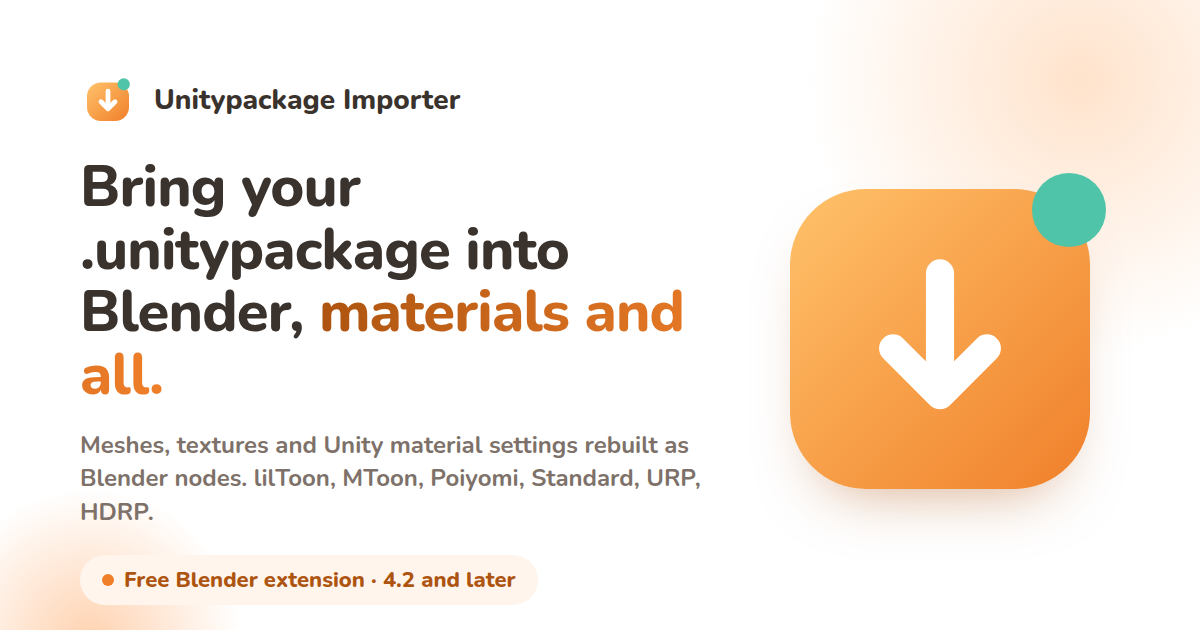
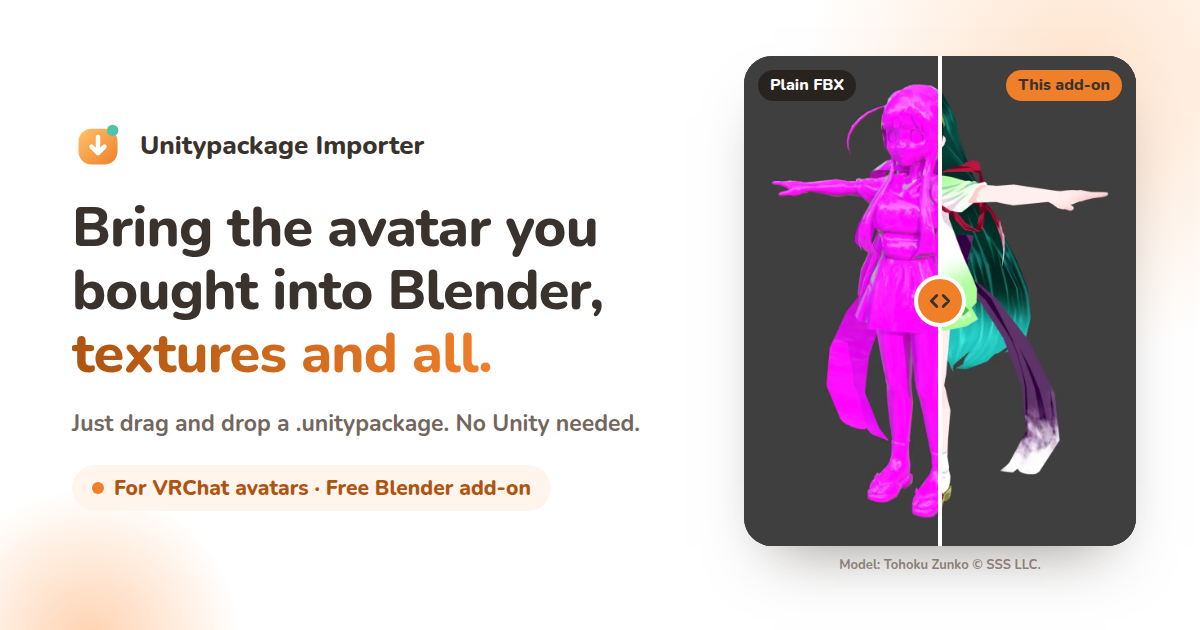
feat: 紹介ページの OGP 画像を新しい見出しと読み込み前後の比較に更新し、日本語版を分ける
OGP 画像は旧コピー「.unitypackage をマテリアルごと」と矢印のアイコンのままで、ページの訴求と合っていなかった。
また日本語ページも英語の画像を共有していた。

- tools/og_card.html を、左に新しい見出し、右にヒーローと同じ読み込み前後の比較（中央で分割）を置く構成に書き直した
  右側は web/assets/hero-before.webp / hero-after.webp をそのまま読むので、ヒーロー画像と見た目が揃う
- ?lang=ja で日本語の文言に切り替え、英語は og.png、日本語は og-ja.png としてレンダリングした
- 日本語ページの og:image / twitter:image / JSON-LD の image を og-ja.png に変更し、両ページの og:image:alt を新しい内容に合わせた
- 比較画像の下にモデルのクレジット（Tohoku Zunko © SSS LLC.）を小さく入れた

Claude-Session: https://claude.ai/code/session_01GbiR3pt3SLGdUYRcZfjBwH

diff --git a/tools/og_card.html b/tools/og_card.html
@@ -1,29 +1,43 @@
 <!DOCTYPE html>
-<!-- OGP 画像（1200×630）の元。ローカルの Chrome でレンダリングして web/assets/og.png にする:
-     google-chrome --headless=new --hide-scrollbars --virtual-time-budget=8000 --window-size=1200,630 --screenshot=web/assets/og.png tools/og_card.html
+<!-- OGP 画像（1200×630）の元。英語と日本語の 2 枚を、ローカルの Chrome でレンダリングして web/assets/ に置く:
+     google-chrome --headless=new --hide-scrollbars --virtual-time-budget=8000 --window-size=1200,630 --screenshot=web/assets/og.png "file://$PWD/tools/og_card.html"
+     google-chrome --headless=new --hide-scrollbars --virtual-time-budget=8000 --window-size=1200,630 --screenshot=web/assets/og-ja.png "file://$PWD/tools/og_card.html?lang=ja"
+     リポジトリのルートで実行すること（右側の前後比較は web/assets/hero-*.webp を相対パスで読む）。
      フォントは Google Fonts から読むので、オンラインで実行すること。 -->
 <html lang="en">
 <head>
 <meta charset="utf-8">
-<link rel="stylesheet" href="https://fonts.googleapis.com/css2?family=Nunito:wght@700;800&display=swap">
+<link rel="stylesheet" href="https://fonts.googleapis.com/css2?family=Nunito:wght@700;800&family=Zen+Maru+Gothic:wght@700;900&display=swap">
 <style>
   html, body { margin: 0; width: 1200px; height: 630px; overflow: hidden; }
   body { background: #ffffff; color: #3a322c; font-family: "Nunito", system-ui, sans-serif; position: relative; }
+  html[lang="ja"] body { font-family: "Zen Maru Gothic", "Nunito", system-ui, sans-serif; }
   .blob { position: absolute; border-radius: 50%; pointer-events: none; }
   .b1 { width: 760px; height: 760px; right: -260px; top: -300px; background: radial-gradient(closest-side, #ffe3cc, rgba(255,227,204,0) 72%); }
   .b2 { width: 420px; height: 420px; left: -120px; bottom: -220px; background: radial-gradient(closest-side, #ffd2b0, rgba(255,210,176,0) 72%); }
-  .card { position: absolute; inset: 0; padding: 72px 80px; display: grid; grid-template-columns: 1fr 360px; align-items: center; gap: 40px; }
-  .logo { display: flex; align-items: center; gap: 18px; font-weight: 800; font-size: 28px; margin-bottom: 28px; }
-  .logo svg { width: 56px; height: 56px; }
-  h1 { margin: 0 0 22px; font-size: 58px; line-height: 1.08; font-weight: 800; letter-spacing: -0.015em; }
+  .card { position: absolute; inset: 0; padding: 56px 64px 56px 72px; display: grid; grid-template-columns: minmax(0, 1fr) 392px; align-items: center; gap: 48px; }
+  .logo { display: flex; align-items: center; gap: 16px; font-family: "Nunito", system-ui, sans-serif; font-weight: 800; font-size: 26px; margin-bottom: 26px; }
+  .logo svg { width: 52px; height: 52px; }
+  h1 { margin: 0 0 22px; font-size: 56px; line-height: 1.12; font-weight: 800; letter-spacing: -0.015em; }
+  html[lang="ja"] h1 { font-size: 58px; line-height: 1.3; font-weight: 900; letter-spacing: 0; }
   h1 em { font-style: normal; background: linear-gradient(90deg, #ad5410, #f07f2a); -webkit-background-clip: text; background-clip: text; color: transparent; }
-  p { margin: 0; font-size: 24px; line-height: 1.4; color: #7d7169; max-width: 640px; font-weight: 700; }
-  .pill { display: inline-flex; align-items: center; gap: 10px; margin-top: 26px; background: #fff5ec; color: #ad5410; font-weight: 800; font-size: 22px; padding: 10px 22px; border-radius: 999px; }
+  h1 .nb { white-space: nowrap; }
+  p { margin: 0; font-size: 23px; line-height: 1.45; color: #72665d; max-width: 600px; font-weight: 700; }
+  .pill { display: inline-flex; align-items: center; gap: 10px; margin-top: 24px; background: #fff5ec; color: #ad5410; font-weight: 800; font-size: 21px; padding: 9px 20px; border-radius: 999px; }
   .pill::before { content: ""; width: 12px; height: 12px; border-radius: 50%; background: #f07f2a; }
-  .art { position: relative; width: 360px; height: 360px; }
-  .art .box { position: absolute; inset: 30px; border-radius: 76px; background: linear-gradient(135deg, #ffc26a, #f07f2a); box-shadow: 0 30px 60px -30px rgba(173,84,16,.5); }
-  .art svg.arrow { position: absolute; inset: 30px; width: 300px; height: 300px; }
-  .art .dot { position: absolute; width: 74px; height: 74px; border-radius: 50%; background: #4fc4a8; right: 14px; top: 14px; }
+
+  /* before / after, split in the middle like the slider on the page */
+  .art { display: grid; gap: 10px; justify-items: center; }
+  .frame { position: relative; width: 392px; height: 490px; border-radius: 28px; overflow: hidden; background: #393939; box-shadow: 0 30px 60px -30px rgba(58,50,44,.55); }
+  .frame img { position: absolute; inset: 0; width: 100%; height: 100%; object-fit: cover; }
+  .frame img.after { clip-path: inset(0 0 0 50%); }
+  .frame .line { position: absolute; top: 0; bottom: 0; left: 50%; width: 4px; margin-left: -2px; background: #fff; }
+  .frame .knob { position: absolute; top: 50%; left: 50%; width: 52px; height: 52px; margin: -26px 0 0 -26px; border-radius: 50%; background: #f07f2a; border: 4px solid #fff; box-sizing: border-box; display: grid; place-items: center; }
+  .frame .knob svg { width: 26px; height: 26px; }
+  .tag { position: absolute; top: 14px; font-size: 16px; font-weight: 800; line-height: 1.3; padding: 5px 12px; border-radius: 999px; }
+  .tag.before { left: 14px; background: rgba(35,29,25,.82); color: #fff; }
+  .tag.after { right: 14px; background: #f07f2a; color: #3a322c; }
+  .credit { font-size: 13px; color: #9a8e85; font-weight: 700; }
 </style>
 </head>
 <body>
@@ -35,15 +49,32 @@
         <svg viewBox="0 0 64 64" aria-hidden="true"><defs><linearGradient id="g" x1="0" y1="0" x2="1" y2="1"><stop offset="0" stop-color="#ffc26a"/><stop offset="1" stop-color="#f07f2a"/></linearGradient></defs><rect x="8" y="12" width="48" height="44" rx="16" fill="url(#g)"/><path d="M32 22v20M24 34l8 8 8-8" fill="none" stroke="#fff" stroke-width="5.5" stroke-linecap="round" stroke-linejoin="round"/><circle cx="50" cy="14" r="7" fill="#4fc4a8"/></svg>
         Unitypackage Importer
       </div>
-      <h1>Bring your .unitypackage into Blender, <em>materials and all.</em></h1>
-      <p>Meshes, textures and Unity material settings rebuilt as Blender nodes. lilToon, MToon, Poiyomi, Standard, URP, HDRP.</p>
-      <span class="pill">Free Blender extension · 4.2 and later</span>
+      <h1 data-en="Bring the avatar you bought into Blender, &lt;em&gt;textures and all.&lt;/em&gt;"
+          data-ja="&lt;span class=&quot;nb&quot;&gt;買ったアバターを、&lt;/span&gt;&lt;br&gt;&lt;em class=&quot;nb&quot;&gt;テクスチャ付きで&lt;/em&gt;&lt;br&gt;&lt;span class=&quot;nb&quot;&gt;Blender へ。&lt;/span&gt;"></h1>
+      <p data-en="Just drag and drop a .unitypackage. No Unity needed."
+         data-ja=".unitypackage をドロップするだけ。Unity は不要です。"></p>
+      <span class="pill" data-en="For VRChat avatars · Free Blender add-on" data-ja="VRChat アバター向け · 無料の Blender アドオン"></span>
     </div>
     <div class="art">
-      <div class="box"></div>
-      <svg class="arrow" viewBox="0 0 64 64" aria-hidden="true"><path d="M32 18v26M22 34l10 10 10-10" fill="none" stroke="#fff" stroke-width="6" stroke-linecap="round" stroke-linejoin="round"/></svg>
-      <div class="dot"></div>
+      <div class="frame">
+        <img src="../web/assets/hero-before.webp" alt="">
+        <img class="after" src="../web/assets/hero-after.webp" alt="">
+        <span class="line"></span>
+        <span class="knob"><svg viewBox="0 0 24 24" fill="none" stroke="#3a322c" stroke-width="2.6" stroke-linecap="round" stroke-linejoin="round"><path d="m9 7-5 5 5 5M15 7l5 5-5 5"/></svg></span>
+        <span class="tag before" data-en="Plain FBX" data-ja="FBX だけ"></span>
+        <span class="tag after" data-en="This add-on" data-ja="このアドオン"></span>
+      </div>
+      <span class="credit">Model: Tohoku Zunko © SSS LLC.</span>
     </div>
   </div>
+  <script>
+    (function () {
+      var lang = new URLSearchParams(location.search).get("lang") === "ja" ? "ja" : "en";
+      document.documentElement.lang = lang;
+      document.querySelectorAll("[data-en]").forEach(function (el) {
+        el.innerHTML = el.getAttribute("data-" + lang);
+      });
+    })();
+  </script>
 </body>
 </html>

diff --git a/web/ja/index.html b/web/ja/index.html
@@ -14,16 +14,16 @@
 <meta property="og:title" content="Unitypackage Importer for Blender">
 <meta property="og:description" content="買ったアバターを、テクスチャ付きで Blender へ。Unity 不要、ドラッグ＆ドロップで読み込める無料アドオン（Blender 4.2 以降）。">
 <meta property="og:url" content="{{BASE_URL}}/ja/">
-<meta property="og:image" content="{{BASE_URL}}/assets/og.png">
+<meta property="og:image" content="{{BASE_URL}}/assets/og-ja.png">
 <meta property="og:image:width" content="1200">
 <meta property="og:image:height" content="630">
-<meta property="og:image:alt" content="Unitypackage Importer for Blender: .unitypackage をマテリアルごと Blender へ。">
+<meta property="og:image:alt" content="Unitypackage Importer：買ったアバターを、テクスチャ付きで Blender へ。FBX だけの読み込みとこのアドオンでの読み込みの比較画像付き。">
 <meta property="og:locale" content="ja_JP">
 <meta property="og:locale:alternate" content="en_US">
 <meta name="twitter:card" content="summary_large_image">
 <meta name="twitter:title" content="Unitypackage Importer for Blender">
 <meta name="twitter:description" content="買ったアバターを、テクスチャ付きで Blender へ。Unity 不要、ドラッグ＆ドロップで読み込める無料アドオン（Blender 4.2 以降）。">
-<meta name="twitter:image" content="{{BASE_URL}}/assets/og.png">
+<meta name="twitter:image" content="{{BASE_URL}}/assets/og-ja.png">
 <meta name="theme-color" content="#f07f2a">
 <link rel="icon" href="../assets/logo.svg" type="image/svg+xml">
 <link rel="apple-touch-icon" href="../assets/apple-touch-icon.png">
@@ -54,7 +54,7 @@
   "softwareVersion": "{{VERSION}}",
   "downloadUrl": "{{ZIP_URL}}",
   "url": "{{BASE_URL}}/ja/",
-  "image": "{{BASE_URL}}/assets/og.png",
+  "image": "{{BASE_URL}}/assets/og-ja.png",
   "license": "https://www.gnu.org/licenses/gpl-3.0.html",
   "isAccessibleForFree": true,
   "offers": { "@type": "Offer", "price": "0", "priceCurrency": "JPY" },

diff --git a/web/index.html b/web/index.html
@@ -17,7 +17,7 @@
 <meta property="og:image" content="{{BASE_URL}}/assets/og.png">
 <meta property="og:image:width" content="1200">
 <meta property="og:image:height" content="630">
-<meta property="og:image:alt" content="Unitypackage Importer for Blender: bring your .unitypackage into Blender, materials and all.">
+<meta property="og:image:alt" content="Unitypackage Importer: bring the avatar you bought into Blender, textures and all, shown next to a plain FBX import.">
 <meta property="og:locale" content="en_US">
 <meta property="og:locale:alternate" content="ja_JP">
 <meta name="twitter:card" content="summary_large_image">
